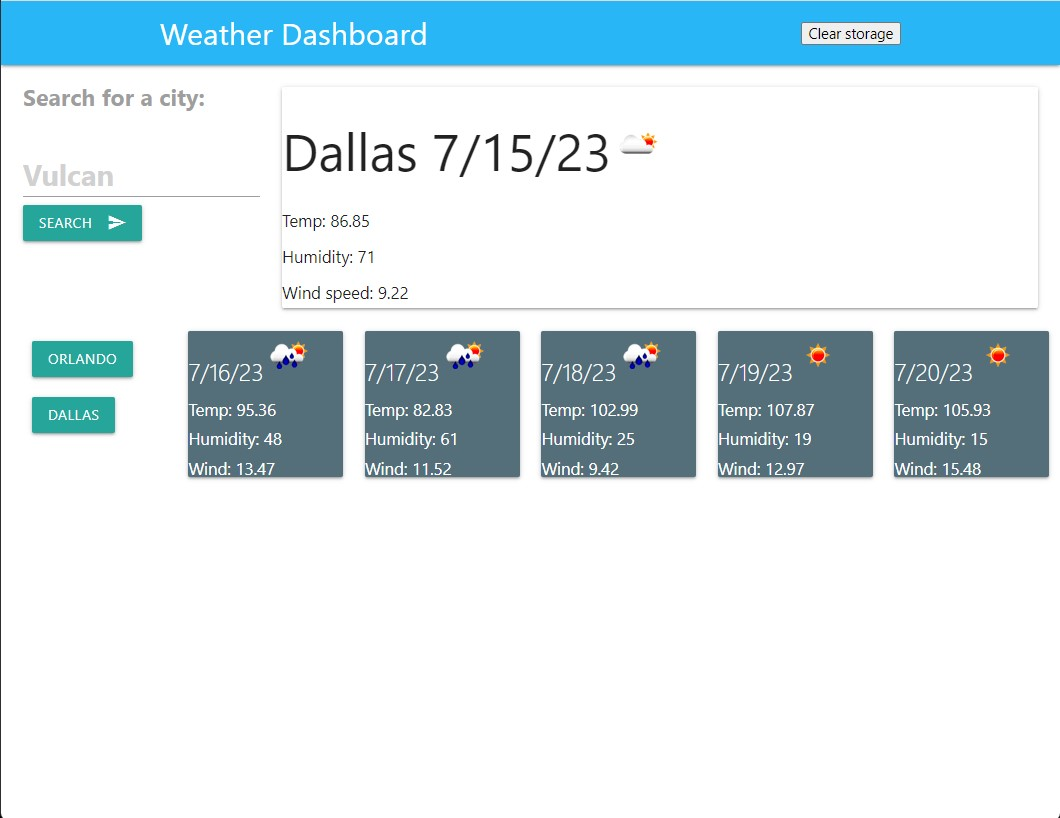
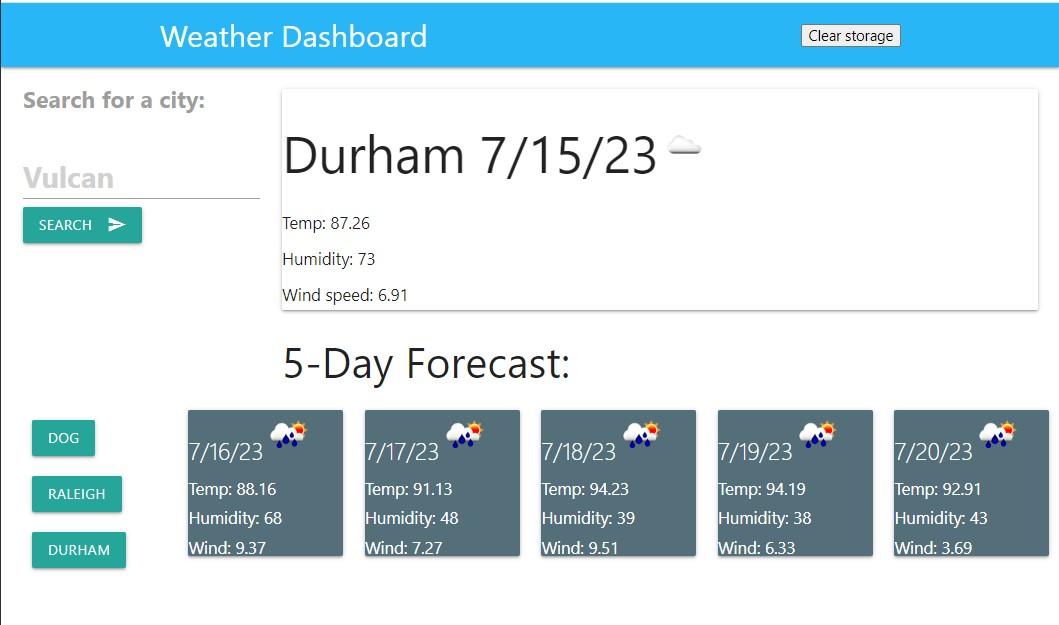
Updated screenshot for README, clear 5-day-forecast text on no results

diff --git a/assets/js/script.js b/assets/js/script.js
@@ -1,4 +1,4 @@
-// Local (non DOM dependent) variables fiindme
+// Local (non DOM dependent) variables
 const weatherAPIkey = '7fac6e8cffdaa3cd49f9c22da4505782';
 const fiveDayText = '5-Day Forecast:';
 const cityRayKey = 'cityRayKey';
@@ -116,6 +116,7 @@ function weatherAPI(city){
                 getWeather([lat, lon]);
             }
             catch{
+                $('#five-day-text').text('');
                 $('#temp').text('');
                 $('#humidity').text('');
                 $('#wind-speed').text('');

diff --git a/README.md b/README.md
@@ -1,4 +1,4 @@
-# 06-Better-Weather :grin:
+# 06-Better-Weather :sunglasses:
 ## By Caine Winters
 
 
@@ -12,11 +12,11 @@
 
 ### Weather application mechanics
 - Type city into search field
-    - Enter or click <search> button to get results.
+    - Enter or click search button to get results.
     - If text input field is empty no action.
     - If no city is found, "No City found" displayed (no weather data).
 - Current city and date displayed prominently according to specification.
-- 5-day forecast displayed before prominent current day according to specification.
+- 5-day forecast displayed below prominent current day section according to specification.
 - "Clear storage" button added to upper right area to refresh page with cleared storage. 
 
 
